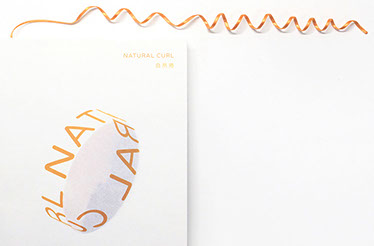
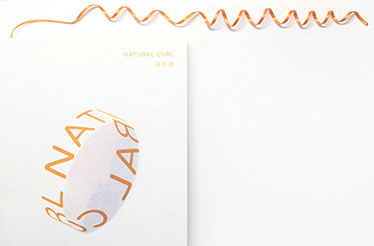
change

Changed region(s): [[0.0882, 0.0, 1.0, 0.1423], [0.3235, 0.1992, 0.4706, 0.2846], [0.2059, 0.4553, 0.3529, 0.5691]]

diff --git a/index.html b/index.html
@@ -70,7 +70,7 @@ if(typeof Muse == "undefined") window.Muse = {}; window.Muse.assets = {"required
          </div>
         </div>
        </div>
-       <a class="nonblock nontext clip_frame grpelem" id="u1821" href="https://pohsuchen1115.github.io/naturalcurl/"><!-- image --><img class="block" id="u1821_img" src="images/cover%20use.jpg?crc=133114155" data-hidpi-src="images/cover%20use_2x.jpg?crc=4068634145" alt="" width="374" height="246"/></a>
+       <a class="nonblock nontext clip_frame grpelem" id="u1821" href="https://pohsuchen1115.github.io/naturalcurl/"><!-- image --><img class="block" id="u1821_img" src="images/cover%20use.jpg?crc=4197838375" data-hidpi-src="images/cover%20use_2x.jpg?crc=237368534" alt="" width="374" height="246"/></a>
       </div>
      </div>
     </div>
